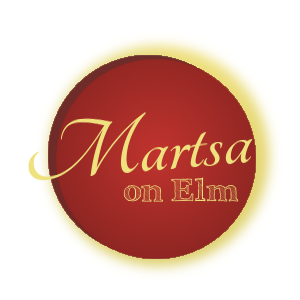
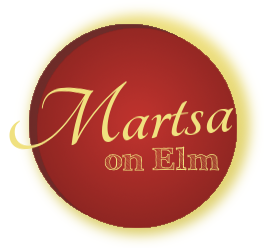
Add media query for mobile sized screen, crop martsa_main.png

diff --git a/css/main.css b/css/main.css
@@ -7,18 +7,29 @@ body {
 	font-family: 'Gafata', sans-serif; 
 }
 
+#header-container {
+	text-align: center;
+	margin: 0 auto; 
+	position: relative;
+	height: 180px;
+}
+
+#header-container * {
+	display: inline-block;
+}
+
 /* Style for menu buttons */
 nav li a {
 	text-decoration: none;
 	font-family: 'Buda', cursive;
-	font-size: 20px;
+	font-size: 25px;
 	color: #f0e17f;
 	text-shadow: 1px 2px 2px #262626;
 
 	padding: 10px;
-	margin: 5px;
+	margin: 10px;
 	position: relative;
-	top: -110px;
+	top: -130px;
 
 	/* Drop shadow on bottom and drop shadow outside */
 	border: solid 2px #f0e17f;
@@ -33,23 +44,12 @@ ul {
 	padding: 0px;
 }
 
-#header-container {
-	text-align: center;
-	margin: 0 auto; 
-	position: relative;
-	height: 190px;
-}
-
-#header-container * {
-	display: inline-block;
-}
-
 #martsa-main {
 	width: 230px;
 }
 
 #photo-band {
-	height: 350px;
+	height: 400px;
 	background-image: url("../img/tweed_2x.png"); 
 	background-repeat: repeat;
 
@@ -60,14 +60,14 @@ ul {
 }
 
 #photos {
-	height: 250px;
-	width: 400px;
+	height: 300px;
+	width: 475px;
 	overflow-y: hidden;
 
 	border: solid 8px #C2C8D1;
 	position: relative;
 	margin: 0 auto;
-	top: 40px;
+	top: 45px;
 
 	-webkit-box-shadow: 0 20px 6px -6px #262626;
 	-moz-box-shadow: 0 20px 6px -6px #262626;
@@ -76,25 +76,62 @@ ul {
 
 #photos img {
 	width: 100%;
-
 }
 
 #beads-corner {
 	position: absolute;
 	max-width: 400px;
-	width: 50%;
+	width: 40%;
 	bottom: 0px;
 	left: 0px;
 }
 
+/* If screen width is less than 580px, then show this */
+@media screen and (max-width: 650px) {
+	#header-container {
+		text-align: center;
+		margin: 0 auto; 
+		position: relative;
+		height: 100px;
+	}
 
-@media screen and (max-width: 580px) {
+	nav li a {
+		text-decoration: none;
+		font-family: 'Buda', cursive;
+		font-size: 17px;
+		color: #f0e17f;
+		text-shadow: 1px 2px 2px #262626;
+
+		padding: 4px;
+		margin: 3px;
+		position: relative;
+		top: -40px;
+
+		/* Drop shadow on bottom and drop shadow outside */
+		border: solid 1px #f0e17f;
+		border-radius: 7px;
+		-webkit-box-shadow: 0 10px 6px -8px #262626;
+		-moz-box-shadow: 0 10px 6px -8px #262626;
+		box-shadow: 0 10px 6px -6px #262626;
+	}
+
+	#martsa-main {
+		width: 100px;
+		position: relative;
+		top: 5px;
+	}
+
+	#photo-band {
+		height: 300px;
+	}
+	#photos {
+		height: 180px;
+		width: 290px;
+	}
+
 	#beads-corner {
 		display: none;
 	}
 
-	nav a {
-		/* mobile friendly menu here */
-	}
 
 }

diff --git a/templates/header.php b/templates/header.php
@@ -1,23 +1,25 @@
 <!DOCTYPE html>
 <head>
-	<meta charset="utf-8">
-	<title>Martsa on Elm - Tibetan Cuisine</title>
+    <meta charset="utf-8">
+    <title>Martsa on Elm - Tibetan Cuisine</title>
     <link rel="shortcut icon" type="image/png" href="img/favicon.ico"/>
     <link rel="stylesheet" href="css/normalize.css">
-	<link rel="stylesheet" href="css/main.css">
+    <link rel="stylesheet" href="css/main.css">
+    <!-- For responsive design on mobile -->
+        <meta name="viewport" content="width=device-width, initial-scale=1.0" />
 </head>
 <body>
     <div id="header-container">
-    	<nav>
+        <nav>
             <ul>
-                <li><a href="index.html">Home</a></li>
-                <li><a href="#">Menu</a></li>
+                <li><a href="index.php">Home</a></li>
+                <li><a href="menu.php">Menu</a></li>
             </ul>
-            <a href="index.html">
+            <a href="index.php">
                 <img id="martsa-main" src="img/martsa_main.png"/>
             </a>
             <ul>
-                <li><a href="#">Photos</a></li>
+                <li><a href="#">About</a></li>
                 <li><a href="#">Contact</a></li>
             </ul>
         </nav>
